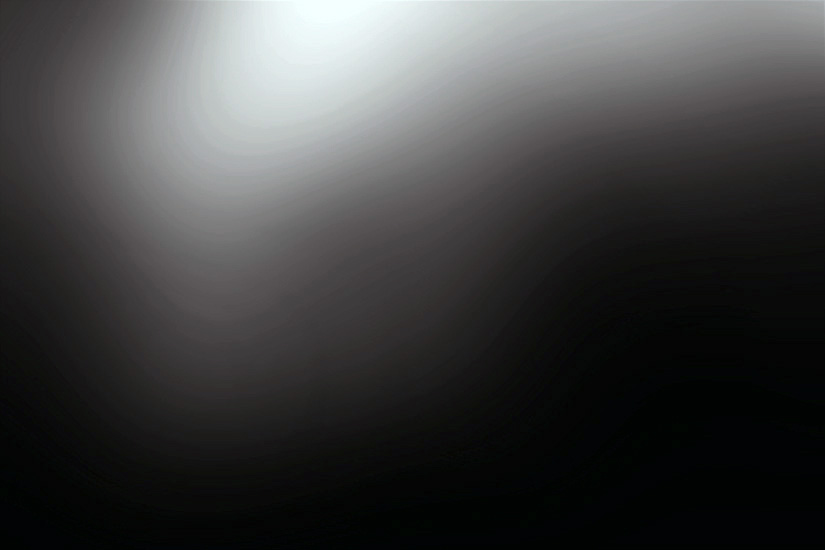
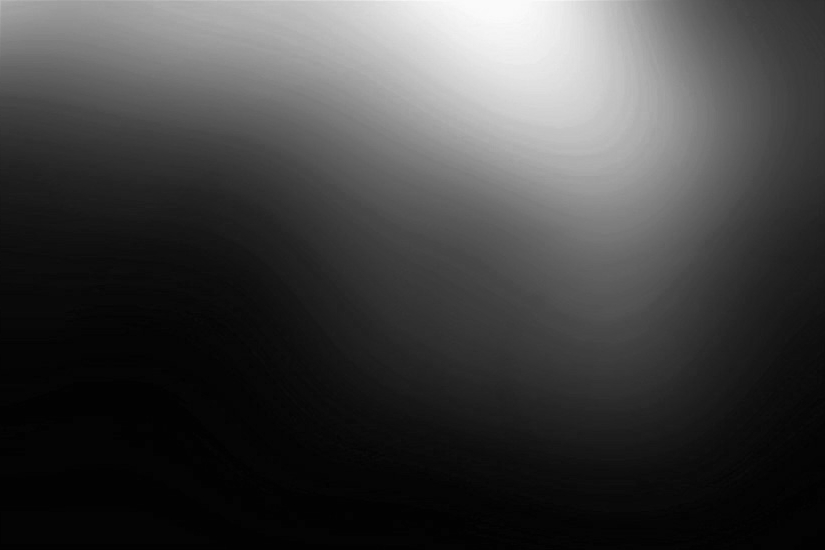
Changed info on download page and changed background

diff --git a/downloads.html b/downloads.html
@@ -28,7 +28,7 @@
   <style type="text/css">
     @import url(//fonts.googleapis.com/css?family=Open+Sans:300);
     body {
-      background: url(WebsiteBackground.jpeg) no-repeat center center fixed;
+      background: url(b.jpg) no-repeat center center fixed;
       -webkit-background-size: cover;
       -moz-background-size: cover;
       -o-background-size: cover;
@@ -43,38 +43,14 @@
   <div id="babasbmsgx" style="visibility: visible !important;">Please disable your adblock and script blockers to view this page</div>
   <h1>Execodeable Downloads</h1>
   <p style="color: #FFFFFF">
-    We currently only have one program up for download. We are in the process of adding programs right now.
+    We currently only have no programs up for download. We are in the process of adding programs right now.
   </p>
   <p style="color: #FFFFFF">
-    The next program release is estimated to come out sometime during May or June of 2016.
+    The first program release is estimated to come out around the beginning of 2017 or earlier.
+  </p>
+  <p style="color: #FFFFFF">
     For more information contact us using the information given on the contact page.
   </p>
-  <p style="color: #FFFFFF">
-    Lukio AI Chatbot v 0.1 Download:
-  </p>
-  <p>
-    <a href="https://goo.gl/DePqH3">
-      <img src="Lukio.ico" alt="Lukio Download" alt="Lukio AI Download">
-    </a>
-  </p>
-  <style type="text/css">
-    p {text-align:center;font-family:'Open Sans';font-size:14px;font-style:normal;font-weight:normal;color:000000;}
-  </style>
-  <p style="color: #A3D9C4">
-    Lukio Release Notes:
-  </p>
-  <p style="color: #D3D9A3">
-    Lukio is a chatbot AI that you can talk to.
-  </p>
-  <p style="color: #D3D9A3">
-    Say whatever you want, and he'll reply.
-  </p>
-  <p style="color: #D3D9A3">
-    Right now Lukio is in alpha, so you may find issues with it.
-  </p>
-  <style type="text/css">
-    p {text-align:center;font-family:'Open Sans';font-size:14px;font-style:normal;font-weight:normal;color:000000;}
-  </style>
   <div style="position: relative">
     <script async src="//pagead2.googlesyndication.com/pagead/js/adsbygoogle.js"></script>
     <div align="center">
